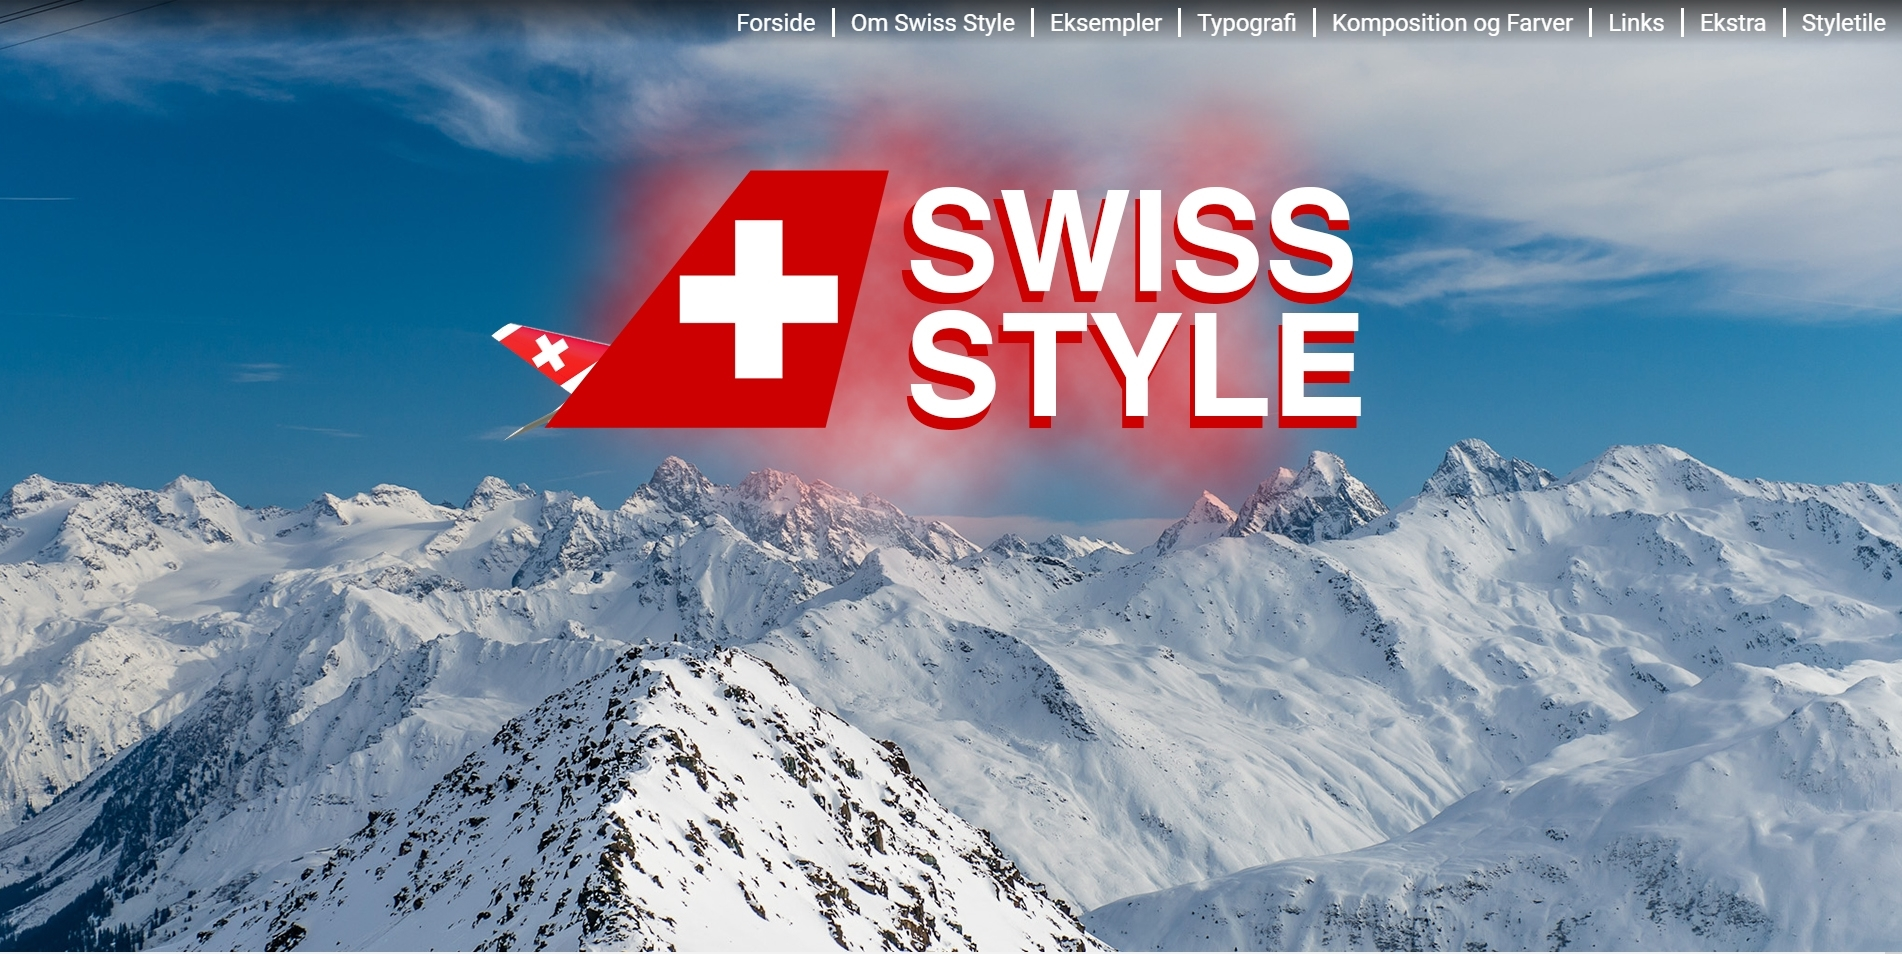
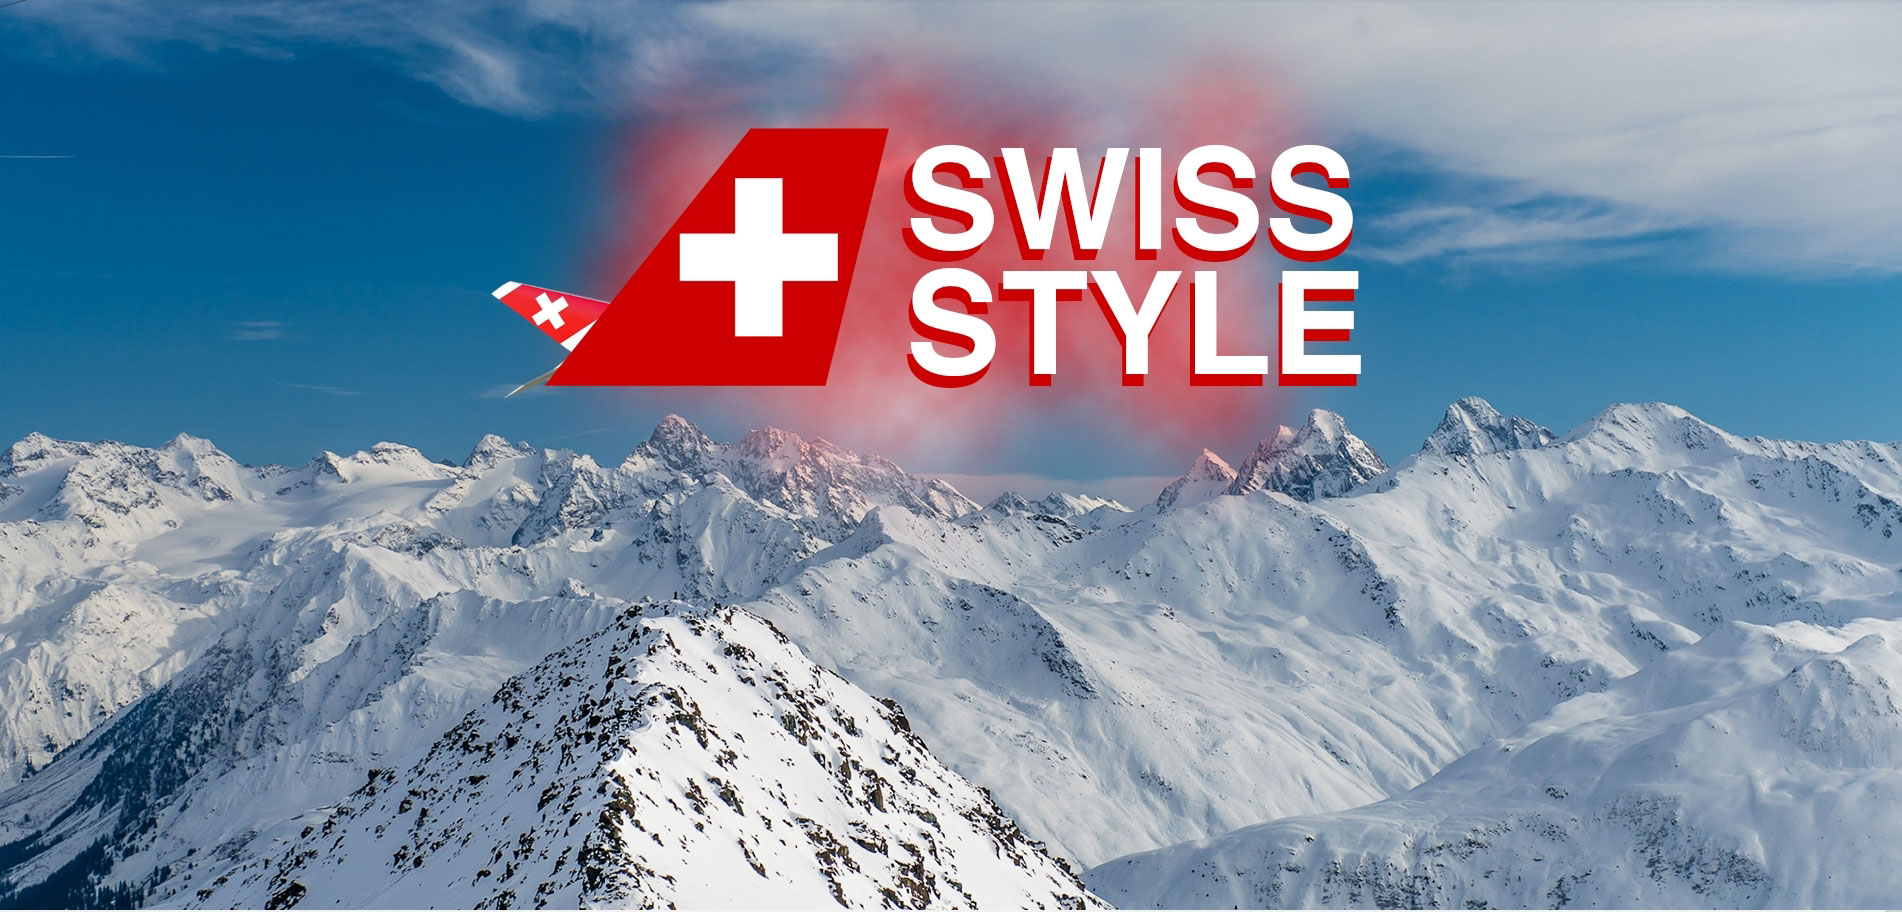
Dokumentationssider

diff --git a/style.css b/style.css
@@ -527,9 +527,10 @@ a {
 
 
 /** WEB CSS **/
+
 .web h1 {
     color: rgba(250, 0, 48, 0.88);
-    font-size: 2rem;
+    font-size: 2.5rem;
     margin: 0.5vw 0.5vw 0.5vw 0vw;
     font-family: 'Roboto Condensed', sans-serif;
     text-align: center;
@@ -597,8 +598,155 @@ web. h3 {
     margin: 0vw 2vw 0vw 0vw;
 }
 
-#beskrivelse #ide {
+/** WEB CSS SLUT **/
+
+
+/** ANIMATION CSS **/
+
+
+.animation h1 {
+    color: rgba(250, 231, 0, 0.88);
+    font-size: 2.5rem;
+    margin: 0.5vw 0.5vw 0.5vw 0vw;
+    font-family: 'Roboto Condensed', sans-serif;
+    text-align: center;
+}
+
+.animation h2 {
+    color: rgba(208, 208, 13, 0.66);
+    font-size: 1.8rem;
+    margin: 0vw;
+    font-family: 'Roboto Condensed', sans-serif;
+    font-weight: bold;
+    text-align: center;
+}
+
+.animation h3 {
+    color: white;
+    font-size: 1.2rem;
+    margin: 0.5vw 0.5vw 0.5vw 0vw;
+    font-family: 'Roboto Condensed', sans-serif;
+
+}
+
+.animation p {
+    color: white;
+    font-size: 1.5rem;
+    margin: 1vw 1vw 1vw 0vw;
+    font-family: 'Roboto', sans-serif;
+}
+
+.animation a {
+    color: white;
+    font-size: 2rem;
+
+}
+
+#spil {
+    background-color: #232933;
+    margin: 0vw;
+    padding: 0vw;
+}
+
+#startspil {
+    margin: 0vw;
+    padding: 0vw;
+
+}
+
+#beskrivelse {
+    background-color: #202224;
+    margin: 0vw 0vw;
+    padding: 3vw 15vw;
+    /**outline: 0.2px solid #FB9136;**/
+}
+
+#beskrivelse #sectionwrapper {
+    display: flex;
+    flex-wrap: wrap;
+    text-align: center;
+
+}
+
+#beskrivelse #dokumentation {
     flex-grow: 1;
     flex-basis: 200px;
-    margin: 0vw 0vw 0vw 0vw;
+    margin: 0vw 2vw 0vw 0vw;
 }
+
+/** ANIMATION CSS SLUT **/
+
+/** INDHOLD CSS **/
+
+.indhold h1 {
+    color: rgba(44, 32, 208, 0.88);
+    font-size: 2.5rem;
+    margin: 0.5vw 0.5vw 0.5vw 0vw;
+    font-family: 'Roboto Condensed', sans-serif;
+    text-align: center;
+}
+
+.indhold h2 {
+    color: rgba(76, 95, 201, 0.66);
+    font-size: 1.8rem;
+    margin: 0vw;
+    font-family: 'Roboto Condensed', sans-serif;
+    font-weight: bold;
+    text-align: center;
+}
+
+.indhold h3 {
+    color: white;
+    font-size: 1.2rem;
+    margin: 0.5vw 0.5vw 0.5vw 0vw;
+    font-family: 'Roboto Condensed', sans-serif;
+
+}
+
+.indhold p {
+    color: white;
+    font-size: 1.5rem;
+    margin: 1vw 1vw 1vw 0vw;
+    font-family: 'Roboto', sans-serif;
+}
+
+.indhold a {
+    color: white;
+    font-size: 2rem;
+
+}
+
+#redesign {
+    background-color: #232933;
+    margin: 0vw;
+    padding: 0vw;
+}
+
+#startredesign {
+    margin: 0vw;
+    padding: 0vw;
+
+}
+
+#beskrivelse {
+    background-color: #202224;
+    margin: 0vw 0vw;
+    padding: 3vw 15vw;
+    /**outline: 0.2px solid #FB9136;**/
+}
+
+#beskrivelse #sectionwrapper {
+    display: flex;
+    flex-wrap: wrap;
+    text-align: center;
+
+}
+
+#beskrivelse #dokumentationto {
+    flex-grow: 1;
+    flex-basis: 200px;
+    margin: 0vw 2vw 0vw 0vw;
+}
+
+
+/** INDHOLD CSS SLUT **/

diff --git a/indhold.html b/indhold.html
@@ -8,8 +8,38 @@
     <link rel="stylesheet" href="style.css">
 </head>
 
-<body>
-    <script src="script.js"></script>
-</body>
+<body class="indhold">
+    <header>
+        <nav>
+            <a href="indhold.html#spil">Indhold</a>
+            <a href="indhold.html#beskrivelse">Beskrivelse</a>
+            <a href="index.html">Portfolio</a>
 
-</html>
+        </nav>
+    </header>
+
+    <section id="redesign">
+        <div id="startredesign">
+            <a href="http://theodior.dk/kea/03-content/03-redesign/03_02_08_redesign/"><img src="img/grund-indhold.jpg" alt="img"></a>
+        </div>
+
+    </section>
+    <section id="beskrivelse">
+        <h1>Beskrivelse</h1>
+        <div id="sectionwrapper">
+
+            <div id="ide">
+                <h2>Grundlæggende ANIMATION</h2>
+                <p>Første tema på multimediedesign på KEA. Vi havde fokus på basic HTML og CSS. Temaet startede med en gruppedannelse til at udarbejde en stilarstpitch til en given stil. Min tillagte stil var "SWISS DESIGN/STYLE". Ud fra vores nyfundne viden angående swiss design, skulle vi lave en studiestartsprøve, som var en hjemmeside, som omhandle sidst nævnte stil. Igennem projektet kom vi ikke mange øvelser og opgaver. Angående b.la. Flexbox. (flexbox, blev designet som en endimensionel layoutmodel og som en metode, der kunne tilbyde rumfordeling mellem elementer i en grænseflade og kraftige tilpasningsmuligheder. Denne artikel giver en oversigt over de vigtigste funktioner i flexbox, som vi vil udforske mere detaljeret i resten af disse vejledninger.)</p>
+            </div>
+        </div>
+        <div id="sectionwrapper">
+            <div id="dokumentationto">
+                <h2>Dokumentation</h2>
+                <a href="https://docs.google.com/presentation/d/1SN_GloK0xUnpFduXHyzWEVzf0HjHAHRuj6wTgXTNXlw/edit#slide=id.g4f90f6148a_5_16">PDF</a>
+            </div>
+        </div>
+    </section>
+
+    <script src="script.js"></script>
+</body></html>

diff --git a/animation.html b/animation.html
@@ -8,7 +8,39 @@
     <link rel="stylesheet" href="style.css">
 </head>
 
-<body>
+<body class="animation">
+    <header>
+        <nav>
+            <a href="animation.html#spil">Spil</a>
+            <a href="animation.html#beskrivelse">Beskrivelse</a>
+            <a href="index.html">Portfolio</a>
+
+        </nav>
+    </header>
+
+    <section id="spil">
+        <div id="startspil">
+            <a href="http://theodior.dk/kea/02-animation/spil/"><img src="img/grund-animation.jpg" alt="img"></a>
+        </div>
+
+    </section>
+    <section id="beskrivelse">
+        <h1>Beskrivelse</h1>
+        <div id="sectionwrapper">
+
+            <div id="ide">
+                <h2>Grundlæggende ANIMATION</h2>
+                <p>Første tema på multimediedesign på KEA. Vi havde fokus på basic HTML og CSS. Temaet startede med en gruppedannelse til at udarbejde en stilarstpitch til en given stil. Min tillagte stil var "SWISS DESIGN/STYLE". Ud fra vores nyfundne viden angående swiss design, skulle vi lave en studiestartsprøve, som var en hjemmeside, som omhandle sidst nævnte stil. Igennem projektet kom vi ikke mange øvelser og opgaver. Angående b.la. Flexbox. (flexbox, blev designet som en endimensionel layoutmodel og som en metode, der kunne tilbyde rumfordeling mellem elementer i en grænseflade og kraftige tilpasningsmuligheder. Denne artikel giver en oversigt over de vigtigste funktioner i flexbox, som vi vil udforske mere detaljeret i resten af disse vejledninger.)</p>
+            </div>
+        </div>
+        <div id="sectionwrapper">
+            <div id="dokumentation">
+                <h2>Dokumentation</h2>
+                <a href="https://docs.google.com/presentation/d/1SN_GloK0xUnpFduXHyzWEVzf0HjHAHRuj6wTgXTNXlw/edit#slide=id.g4f90f6148a_5_16">PDF</a>
+            </div>
+        </div>
+    </section>
+
     <script src="script.js"></script>
 </body>
 

diff --git a/web.html b/web.html
@@ -9,8 +9,13 @@
 </head>
 
 <body class="web">
-    <header>
+    <header class="webheader">
+        <nav>
+            <a href="web.html#responsive">Responsive</a>
+            <a href="web.html#beskrivelse">Beskrivelse</a>
+            <a href="index.html">Portfolio</a>
 
+        </nav>
     </header>
 
     <section id="responsive">
@@ -37,4 +42,6 @@
     </section>
 
     <script src="script.js"></script>
-</body></html>
+</body>
+
+</html>

diff --git a/portfoliodoku.html b/portfoliodoku.html
@@ -1,0 +1,12 @@
+<!DOCTYPE html>
+<html lang="da">
+<head>
+    <meta charset="utf-8">
+    <meta name="viewport" content="width=device-width, initial-scale=1.0">
+    <title>PORTFOLIO DOKUMENTATION</title>
+    <link rel="stylesheet" href="style.css">
+</head>
+
+<body>
+    <script src="script.js"></script>
+</body></html>
